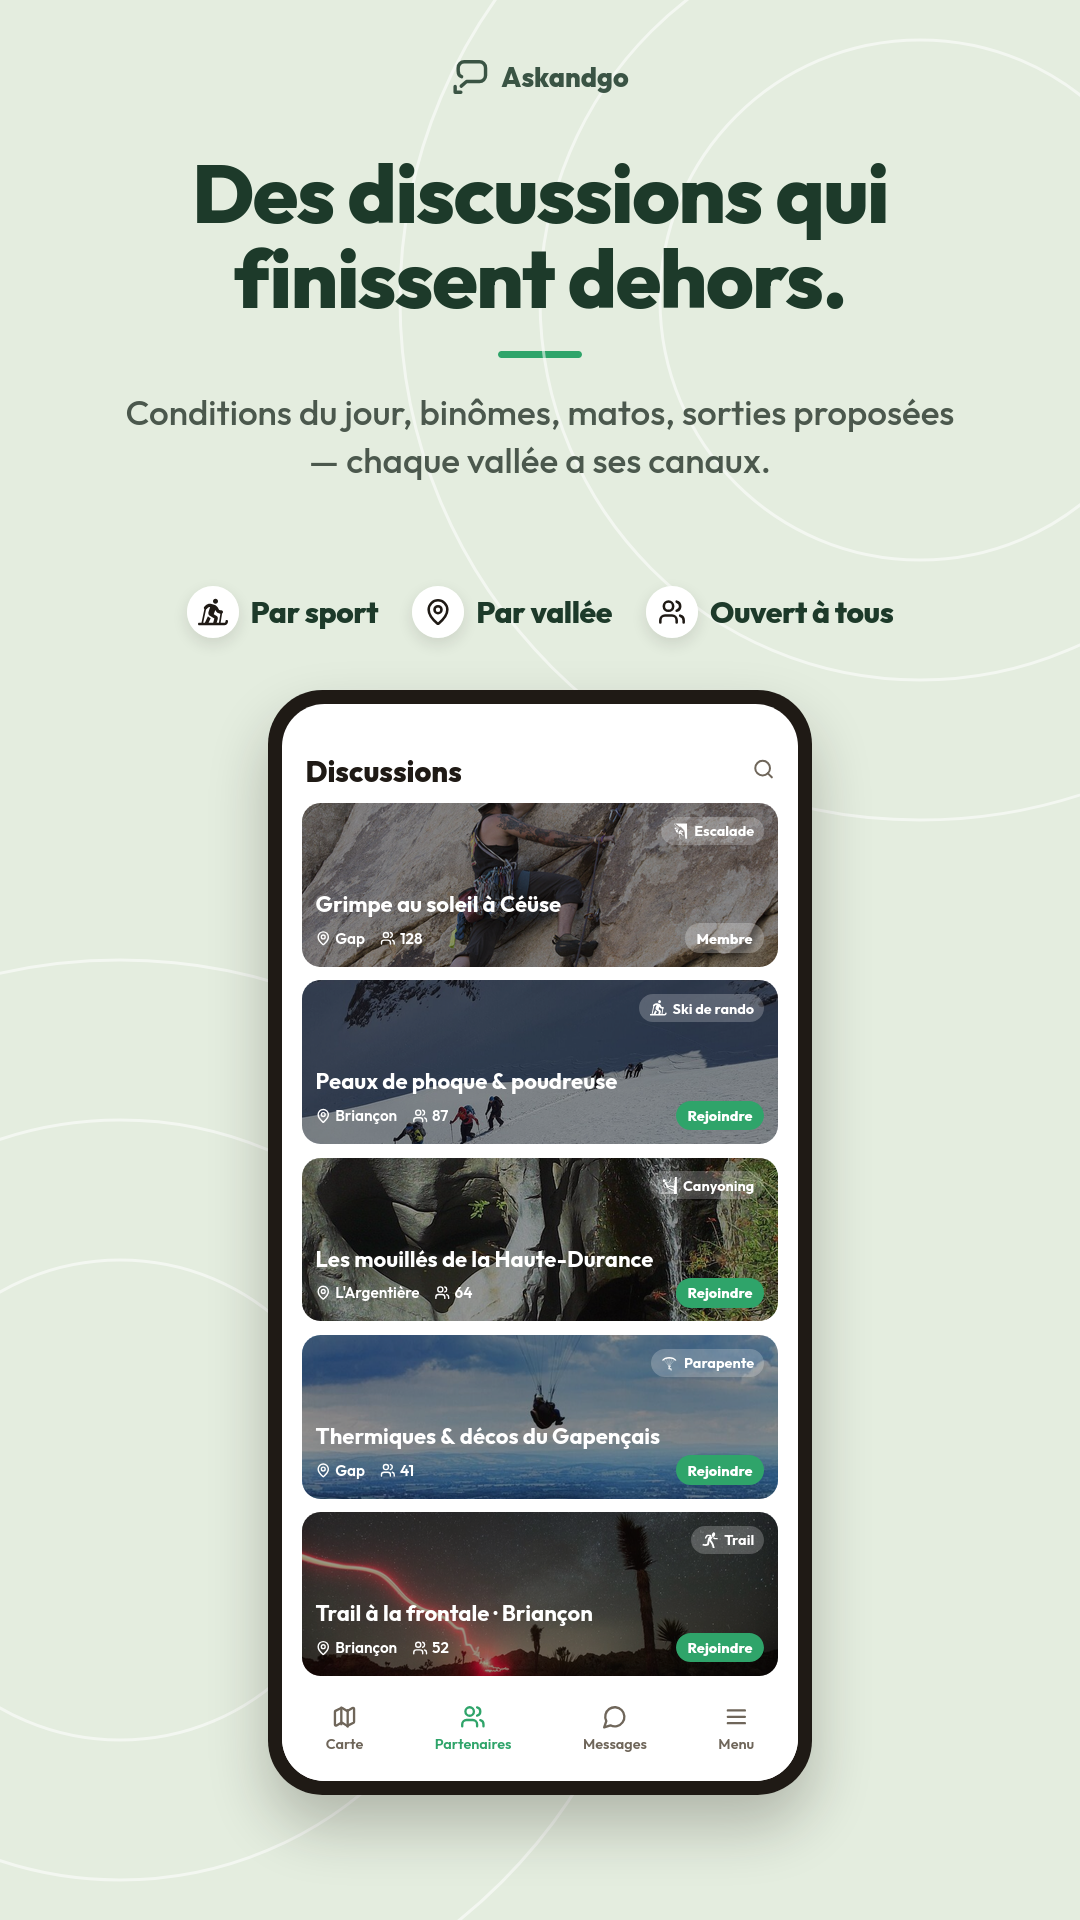
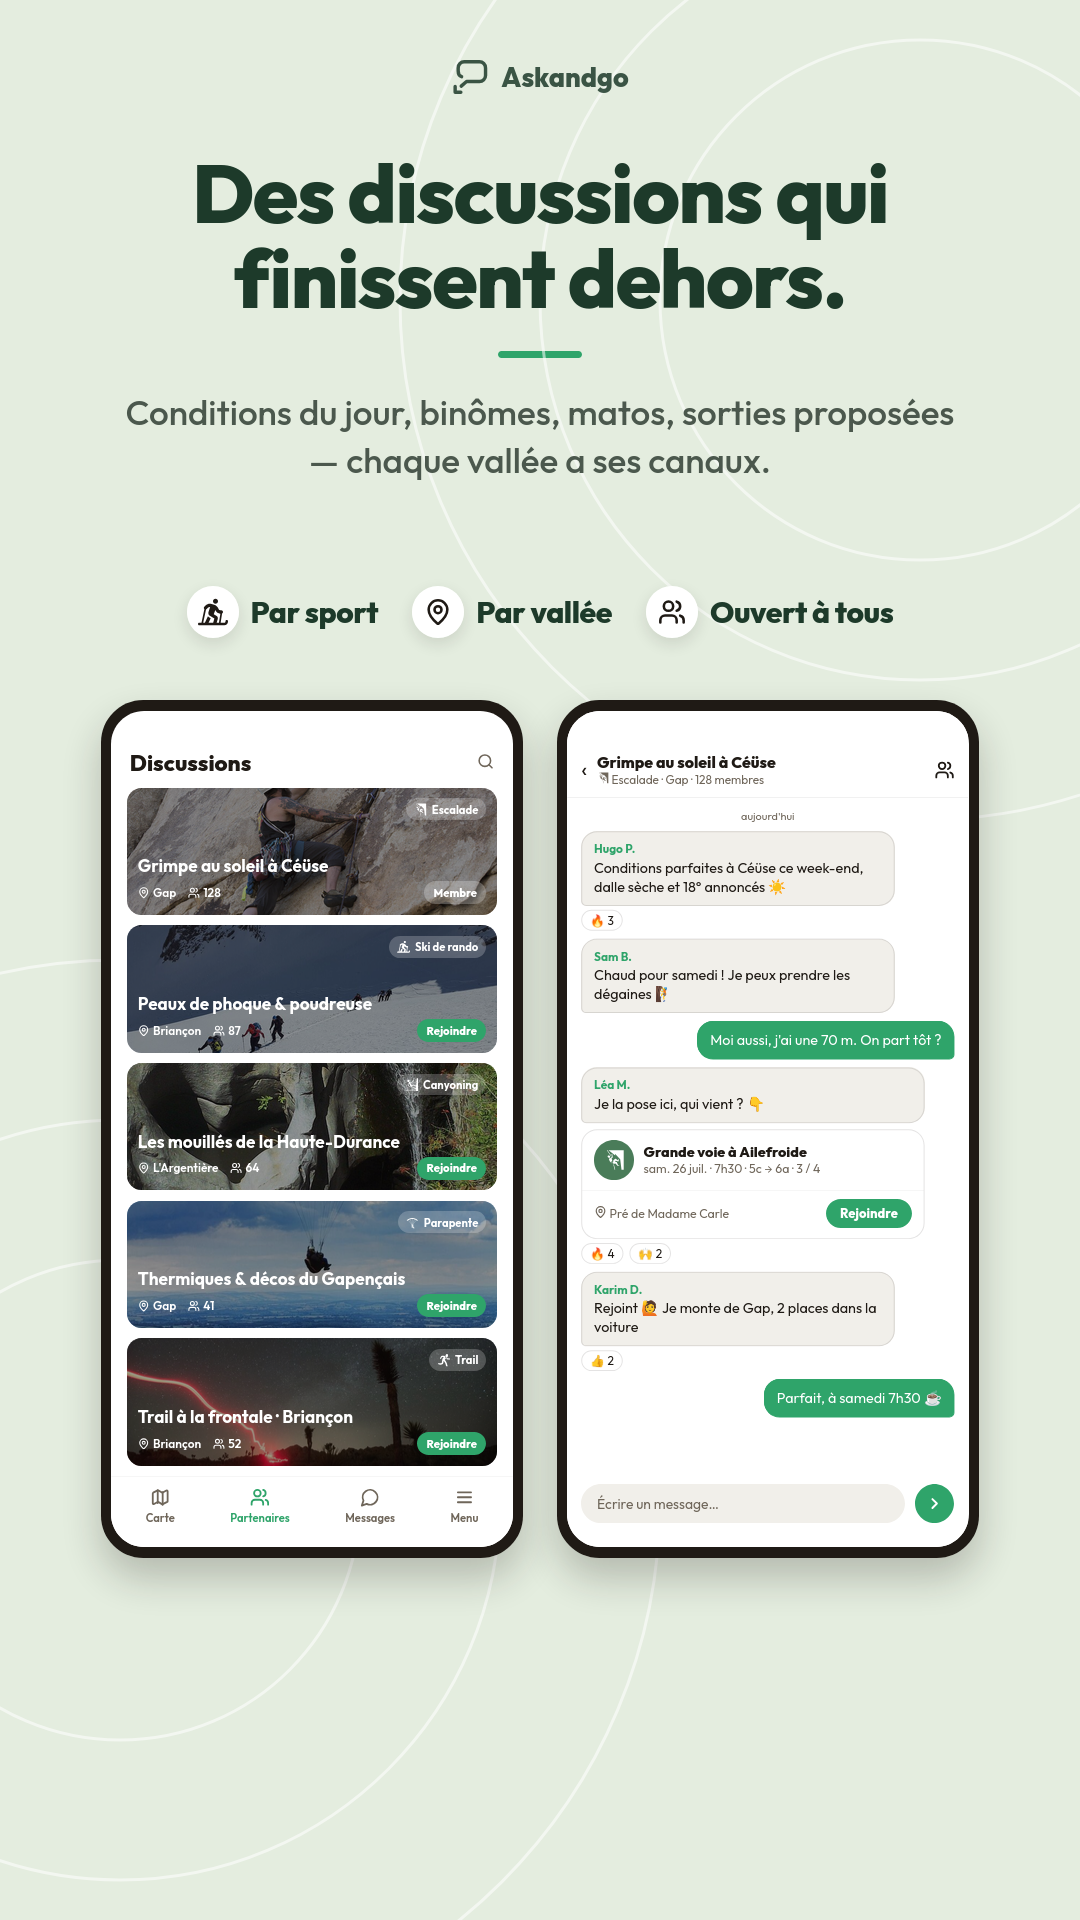
feat(play): image 4 — two straight phones side by side: the channel list and a channel thread (several people, a shared outing, reactions) under the keyword row

diff --git a/assets/play-store/askandgo/two.py b/assets/play-store/askandgo/two.py
@@ -9,14 +9,17 @@ ROOT = os.path.abspath(f'{S}/../../..')
 src = open(f'{S}/generate.py').read()
 # helpers + the Partenaires body (image 3's first screen) as generate.py draws it
 src = src.replace("PH=lambda k:f'photos/demo-channel-{k}.jpg'", "PH=lambda k:f'file://{S}/photos/demo-channel-{k}.jpg'")  # absolute: the html lives elsewhere
-exec(src[:src.index("out['3-partenaires']")])  # noqa: S102
-partenaires_body = body
-# the pro page body as pro6.py draws it (image 6's first screen)
+which = sys.argv[1]
+# 3 → Partenaires, 4 → Discussions (as generate.py draws them); 6 → the pro page as pro6.py draws it.
+cut = {'3': "out['3-partenaires']", '4': "out['4-canaux']", '6': "out['3-partenaires']"}[which]
+exec(src[:src.index(cut)])  # noqa: S102
+first_body = body
+# pro6.py's helpers (PRO, lx, roundbtn…) serve the offering page too; its `body` is the pro page.
 p6 = open(f'{S}/pro6.py').read()
 exec(p6[p6.index("PRO = lambda"):p6.index('extra = (')])  # noqa: S102
-pro_body = body
-
-which = sys.argv[1]
+if which == '6':
+    first_body = body
+partenaires_body = pro_body = canaux_body = first_body
 
 def two_screens(title, sub, body_a, body_b):
     shell = screen(title, sub, '', '')
@@ -97,7 +100,45 @@ offering_body = f'''<div class="zoomwrap" style="background:#FFF">
   <span style="background:{GREEN};color:#FFF;border-radius:999px;padding:12px 26px;font-size:15px;font-weight:800;box-shadow:0 6px 16px rgba(47,164,106,.35)">Réserver</span>
 </div></div>'''
 
-if which == '3':
+def keywords(items):
+    cells = ''.join(f'<div style="display:flex;align-items:center;gap:12px"><span style="width:52px;height:52px;border-radius:50%;background:#FFF;display:inline-flex;align-items:center;justify-content:center;box-shadow:0 6px 16px rgba(31,26,21,.12)">{ic}</span><span style="font-size:30px;font-weight:800;color:{DEEP};letter-spacing:-.4px;white-space:nowrap">{w}</span></div>' for ic, w in items)
+    return f'<div style="position:absolute;left:0;right:0;top:586px;display:flex;justify-content:center;gap:34px;padding:0 30px">{cells}</div>'
+
+# Image 4: two straight phones side by side (Scott 2026-10-27) under the keyword row.
+def side_by_side(title, sub, body_a, body_b, items):
+    shell = screen(title, sub, '', '')
+    phones = (f'<div class="phone" style="left:-8px;top:700px;transform:scale(.66);box-shadow:0 30px 60px rgba(31,26,21,.24)"><div class="scr">{body_a}</div></div>'
+              f'<div class="phone" style="left:448px;top:700px;transform:scale(.66);box-shadow:0 30px 60px rgba(31,26,21,.24)"><div class="scr">{body_b}</div></div>')
+    return shell.replace('<div class="phone"><div class="scr"></div></div>', keywords(items) + phones)
+
+# ---------- 4 · a channel's thread: several people, a shared outing, reactions ----------
+def msg(who, text, own=False, reactions=None):
+    r = (f'<div style="display:flex;gap:6px;margin-top:4px;{"justify-content:flex-end" if own else ""}">' + ''.join(f'<span style="background:#FFF;border:1px solid rgba(31,26,21,.12);border-radius:999px;padding:2px 8px;font-size:12px">{e} {n}</span>' for e, n in reactions) + '</div>') if reactions else ''
+    cls = 'bub own' if own else 'bub'
+    w = '' if own else f'<span class="who" style="font-size:12px">{who}</span>'
+    return f'<div style="display:flex;flex-direction:column;{"align-items:flex-end" if own else ""}"><div class="{cls}" style="font-size:14.5px;margin-top:8px;max-width:84%;padding:9px 12px;border-radius:16px;{"border-bottom-right-radius:5px" if own else "border-bottom-left-radius:5px"}">{w}{text}</div>{r}</div>'
+shared = f'''<div style="display:flex;flex-direction:column;margin-top:8px"><div class="bub" style="font-size:14.5px;margin:0;max-width:92%;padding:9px 12px;border-radius:16px;border-bottom-left-radius:5px"><span class="who" style="font-size:12px">Léa M.</span>Je la pose ici, qui vient ? 👇</div>
+<div style="margin-top:6px;max-width:92%;background:#FFF;border:1.5px solid rgba(31,26,21,.12);border-radius:16px;overflow:hidden">
+ <div style="display:flex;align-items:center;gap:10px;padding:10px 12px"><span class="av" style="width:40px;height:40px;background:{UNI['climbing-sport']};color:#FFF">{sp('climbing-sport',22,'#FFF')}</span><div style="flex:1;min-width:0"><div style="font-size:14.5px;font-weight:800;line-height:1.15">Grande voie à Ailefroide</div><div style="font-size:12.5px;color:{SEC}">sam. 26 juil. · 7h30 · 5c → 6a · 3 / 4</div></div></div>
+ <div style="display:flex;align-items:center;justify-content:space-between;padding:8px 12px 10px;border-top:1px solid rgba(31,26,21,.08)"><span style="font-size:12.5px;color:{SEC}">{li('pin',13,SEC)} Pré de Madame Carle</span><span class="gp" style="font-size:13px;padding:7px 14px">Rejoindre</span></div></div>
+<div style="display:flex;gap:6px;margin-top:4px"><span style="background:#FFF;border:1px solid rgba(31,26,21,.12);border-radius:999px;padding:2px 8px;font-size:12px">🔥 4</span><span style="background:#FFF;border:1px solid rgba(31,26,21,.12);border-radius:999px;padding:2px 8px;font-size:12px">🙌 2</span></div></div>'''
+thread_body = f'''<div class="zoomwrap" style="background:#FFF">
+<div style="display:flex;align-items:center;gap:10px;padding:42px 14px 10px;border-bottom:1px solid rgba(31,26,21,.08)"><span style="font-size:22px">‹</span><div style="flex:1;min-width:0"><div style="font-size:16px;font-weight:800;white-space:nowrap;overflow:hidden;text-overflow:ellipsis">Grimpe au soleil à Céüse</div><div style="font-size:12px;color:{SEC}">{sp('climbing-sport',12,SEC)} Escalade · Gap · 128 membres</div></div>{li('users',20,INK)}</div>
+<div style="flex:1;padding:6px 14px 0;display:flex;flex-direction:column;overflow:hidden">
+ <div style="align-self:center;font-size:11px;color:{SEC};margin-top:6px">aujourd'hui</div>
+ {msg('Hugo P.', 'Conditions parfaites à Céüse ce week-end, dalle sèche et 18° annoncés ☀', False, [('🔥','3')])}
+ {msg('Sam B.', "Chaud pour samedi ! Je peux prendre les dégaines 🧗", False)}
+ {msg('', "Moi aussi, j'ai une 70 m. On part tôt ?", True)}
+ {shared}
+ {msg('Karim D.', 'Rejoint 🙋 Je monte de Gap, 2 places dans la voiture', False, [('👍','2')])}
+ {msg('', 'Parfait, à samedi 7h30 ☕', True)}
+</div>
+<div style="padding:10px 14px 24px;display:flex;align-items:center;gap:10px"><div style="flex:1;background:#F1EFEA;border-radius:999px;padding:11px 16px;font-size:14px;color:{SEC}">Écrire un message…</div><span style="width:40px;height:40px;border-radius:50%;background:{GREEN};display:inline-flex;align-items:center;justify-content:center">{li('chev',18,'#FFF',2.6)}</span></div></div>'''
+
+if which == '4':
+    html = side_by_side('Des discussions qui<br>finissent dehors.', 'Conditions du jour, binômes, matos, sorties proposées — chaque vallée a ses canaux.', canaux_body, thread_body,
+                        [(sp('ski-touring', 30, INK), 'Par sport'), (li('pin', 28, INK), 'Par vallée'), (li('users', 28, INK), 'Ouvert à tous')])
+elif which == '3':
     html = two_screens('Dis quand<br>tu es dispo.', 'Pour quels sports, dans quelle zone — et vois qui cherche la même chose. Un message, et vous partez ensemble.', partenaires_body, dispo_body)
 else:
     html = two_screens('Guides et moniteurs,<br>sur la même carte.', "Leur page, leurs sorties encadrées avec tarifs et places, des avis vérifiés. Tu choisis, tu réserves.", pro_body, offering_body)
